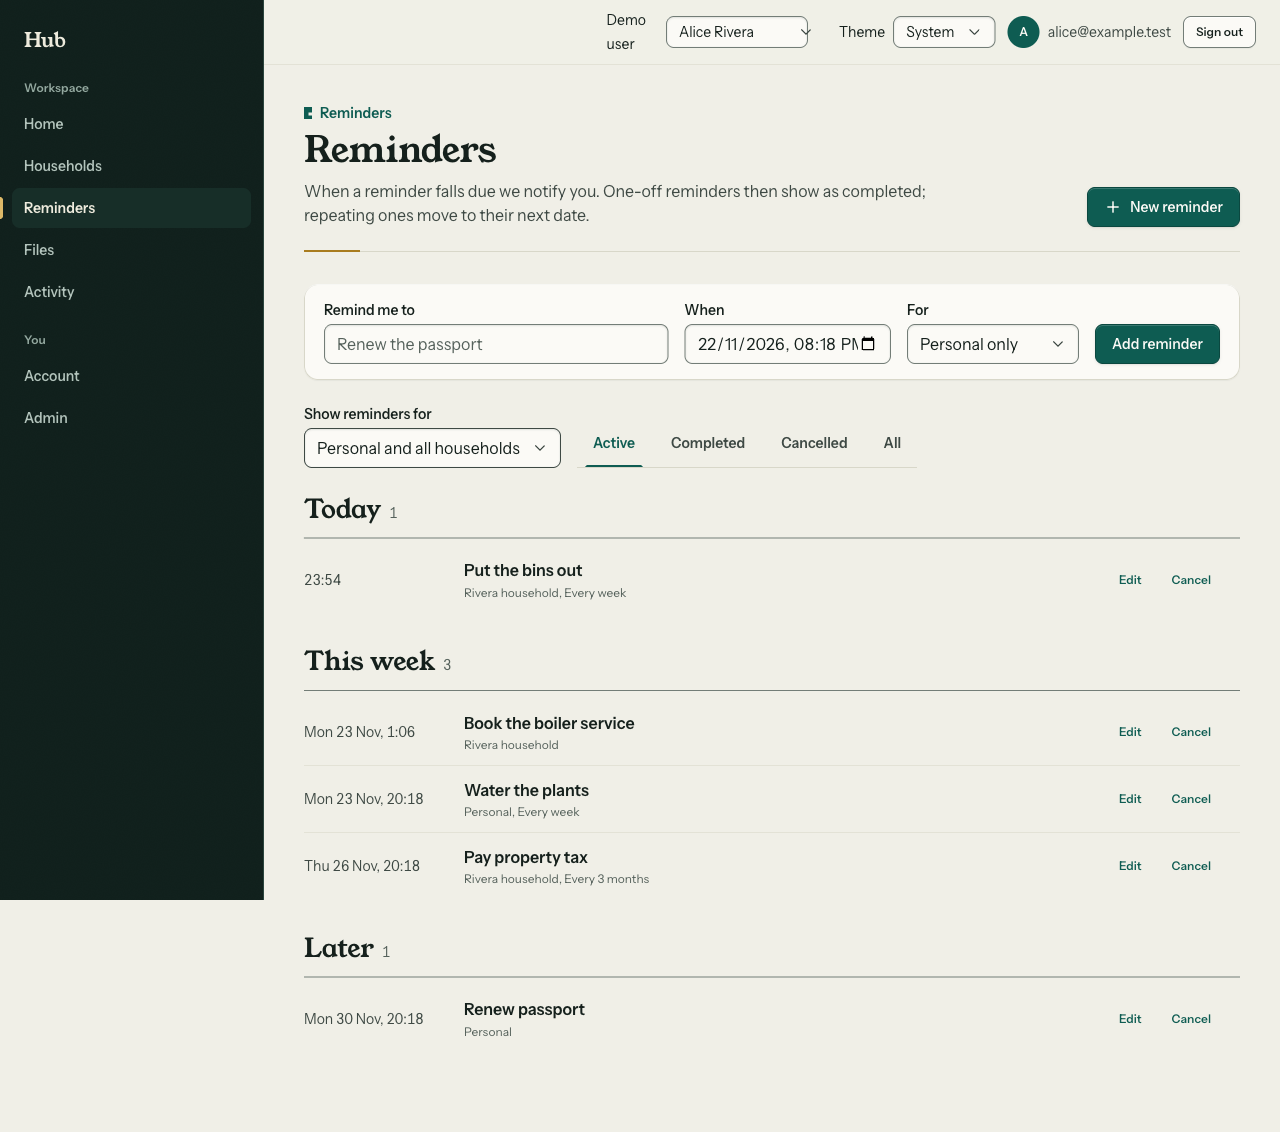
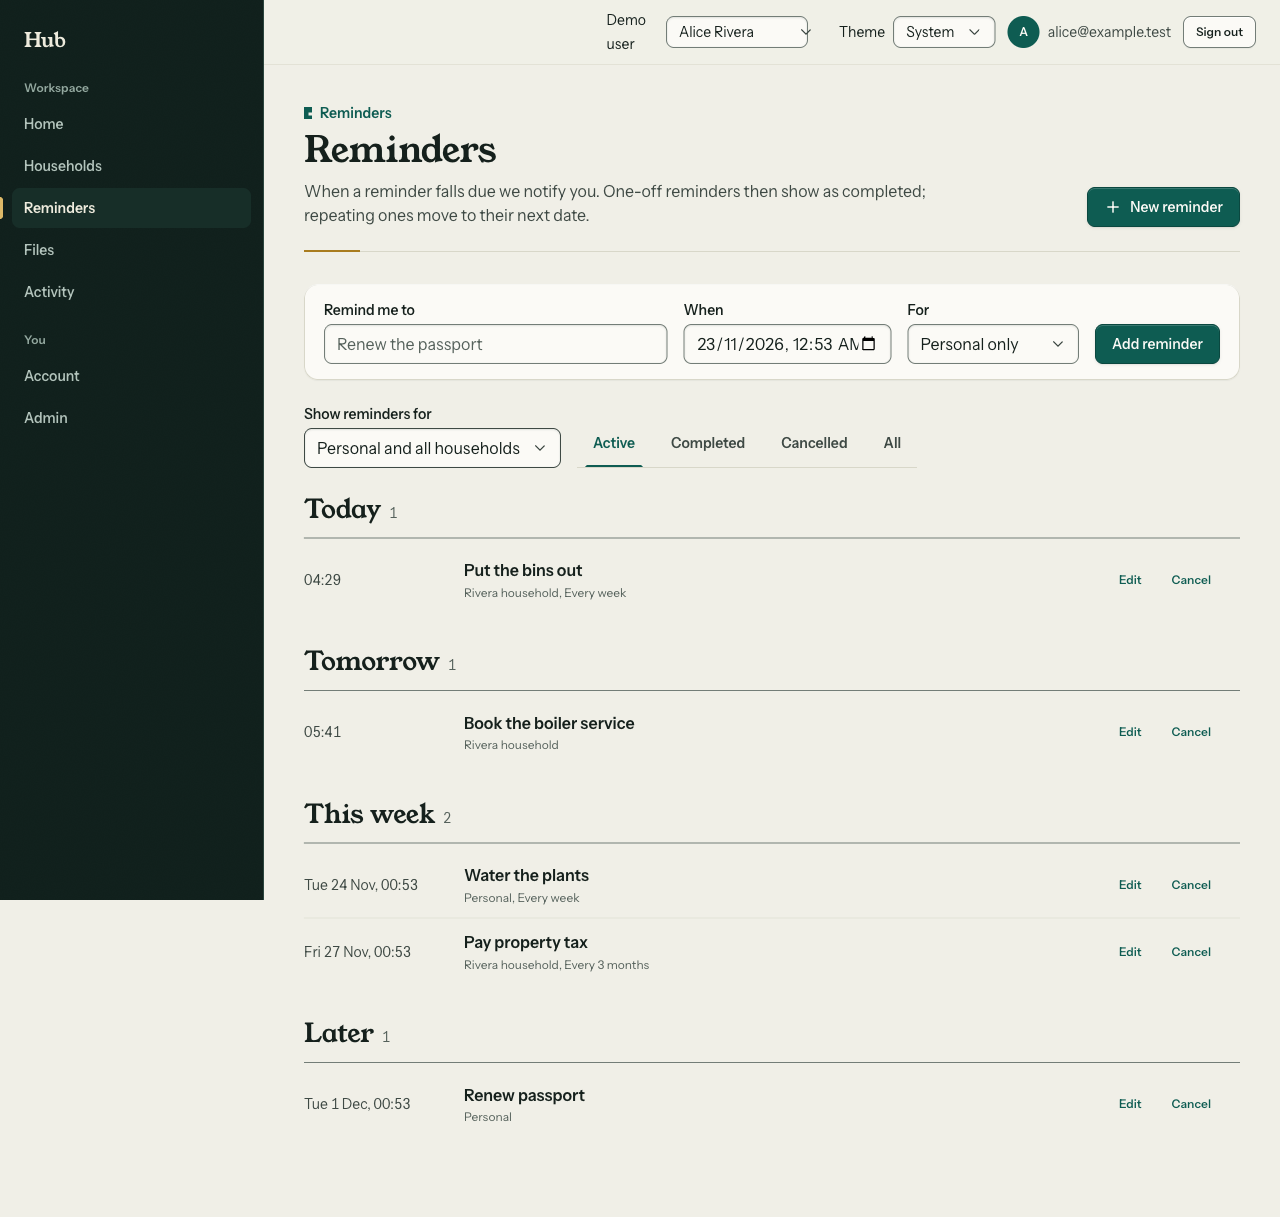
feat(core): spacing fixes from the browser check and screenshots

diff --git a/ui-common/apps/hub/src/features/overview/OverviewPage.tsx b/ui-common/apps/hub/src/features/overview/OverviewPage.tsx
@@ -230,16 +230,20 @@ export function OverviewPage({
     return (
       <>
         <PageHeader {...(header ?? DEFAULT_HEADER)} />
-        <Loading />
-        {footer}
+        <div className={styles.page}>
+          <Loading />
+          {footer}
+        </div>
       </>
     )
   if (households.isError)
     return (
       <>
         <PageHeader {...(header ?? DEFAULT_HEADER)} />
-        <ErrorState error={households.error} onRetry={() => void households.refetch()} />
-        {footer}
+        <div className={styles.page}>
+          <ErrorState error={households.error} onRetry={() => void households.refetch()} />
+          {footer}
+        </div>
       </>
     )
   if (!primary)
@@ -251,8 +255,10 @@ export function OverviewPage({
             description: 'Households, reminders and files, shared with the people you choose.',
           })}
         />
-        <FirstRun />
-        {footer}
+        <div className={styles.page}>
+          <FirstRun />
+          {footer}
+        </div>
       </>
     )
 

diff --git a/ui-common/apps/hub/src/mock/seed.ts b/ui-common/apps/hub/src/mock/seed.ts
@@ -123,9 +123,18 @@ export function createSeededState(
       lastFiredAt: status === 'COMPLETED' ? dueAt : null,
       createdAt: now - createdDaysAgo * DAY,
     })
-    recordAudit(state, now - createdDaysAgo * DAY, owner, householdId, 'reminder.created', 'reminder', id, {
-      title,
-    })
+    recordAudit(
+      state,
+      now - createdDaysAgo * DAY,
+      owner,
+      householdId,
+      'reminder.created',
+      'reminder',
+      id,
+      {
+        title,
+      },
+    )
   }
   addReminder('Put the bins out', 0.15, home, { unit: 'WEEKLY', interval: 1 }, 'ACTIVE', 0.3)
   addReminder('Book the boiler service', 1.2, home, null, 'ACTIVE', 1)

diff --git a/ui-common/apps/hub/src/lib/day.ts b/ui-common/apps/hub/src/lib/day.ts
@@ -79,7 +79,7 @@ const dayName = new Intl.DateTimeFormat(undefined, {
   day: 'numeric',
   month: 'short',
 })
-const timeOnly = new Intl.DateTimeFormat(undefined, { hour: 'numeric', minute: '2-digit' })
+const timeOnly = new Intl.DateTimeFormat(undefined, { timeStyle: 'short' })
 
 /** "Fri 27 Nov". */
 export function formatDay(ms: number): string {

diff --git a/ui-common/apps/hub/src/features/reminders/components/QuickAdd.module.css b/ui-common/apps/hub/src/features/reminders/components/QuickAdd.module.css
@@ -1,6 +1,6 @@
 .form {
   display: grid;
-  grid-template-columns: minmax(0, 2fr) minmax(0, 1.2fr) minmax(0, 1fr) auto;
+  grid-template-columns: minmax(0, 2fr) minmax(13rem, 1.2fr) minmax(0, 1fr) auto;
   align-items: end;
   gap: var(--pp-space-3) var(--pp-space-4);
   padding: var(--pp-space-4) var(--pp-space-5);
